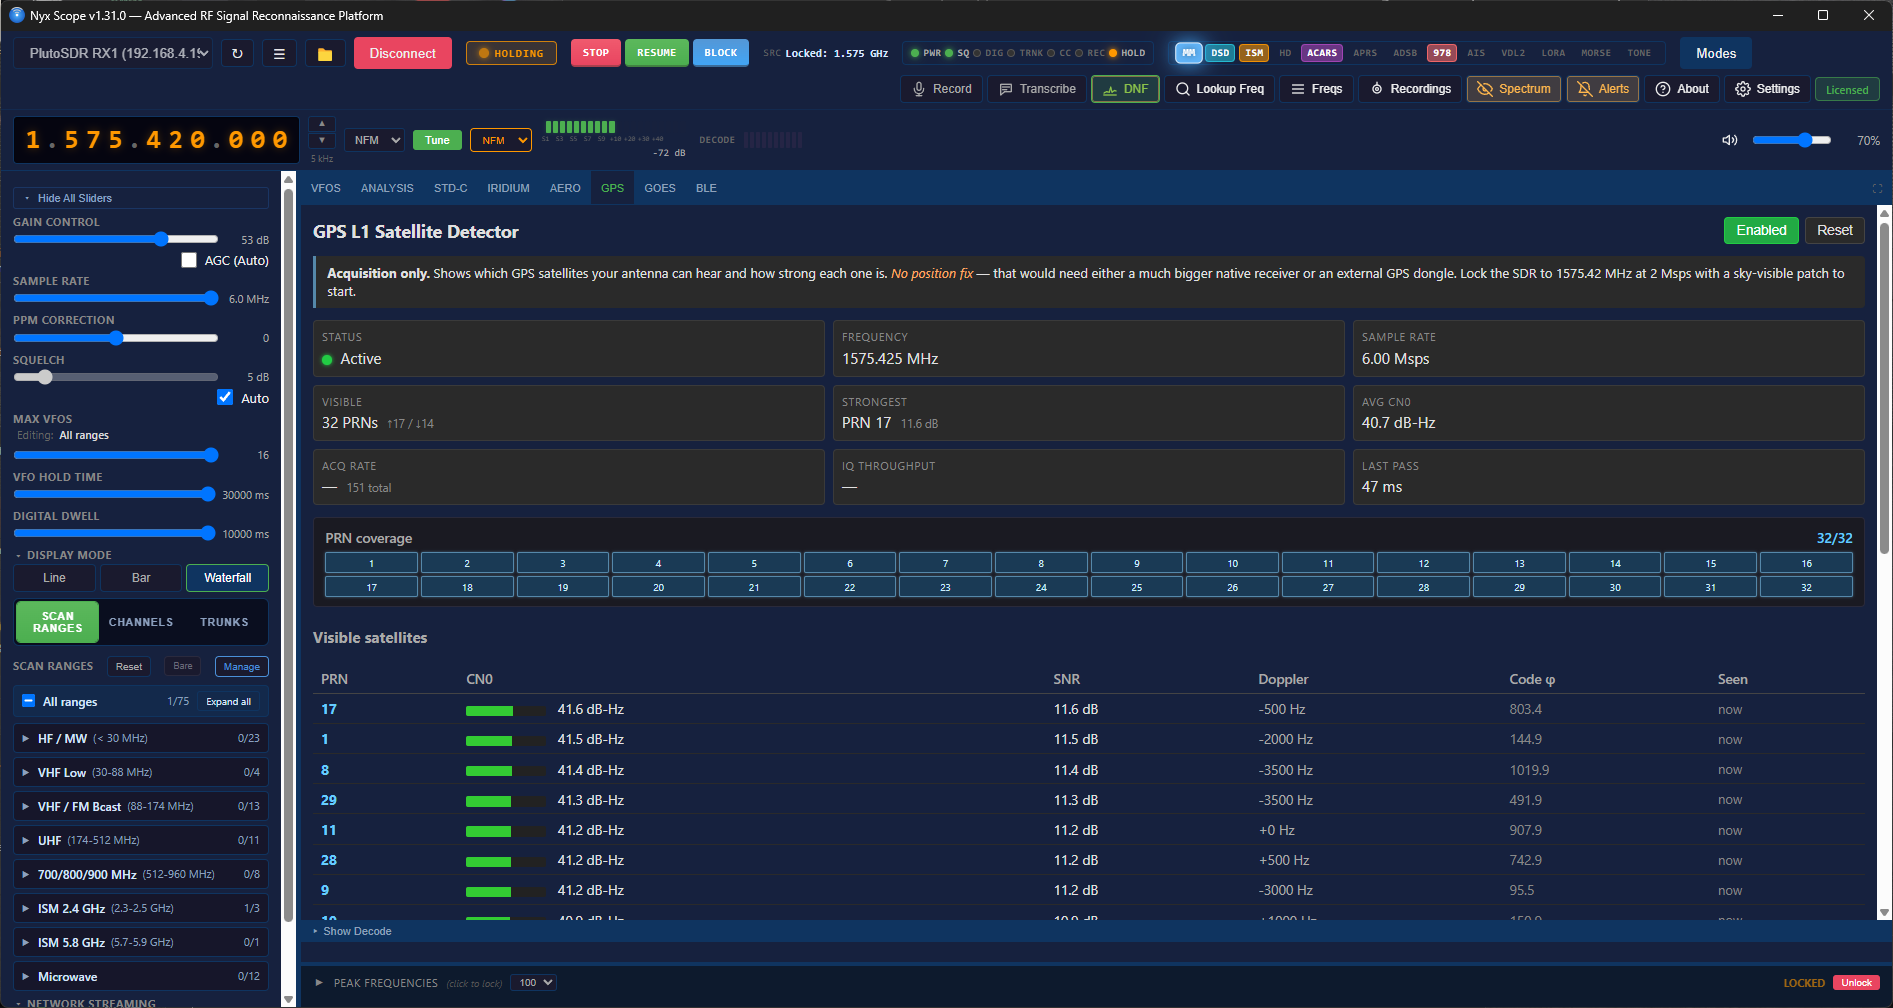
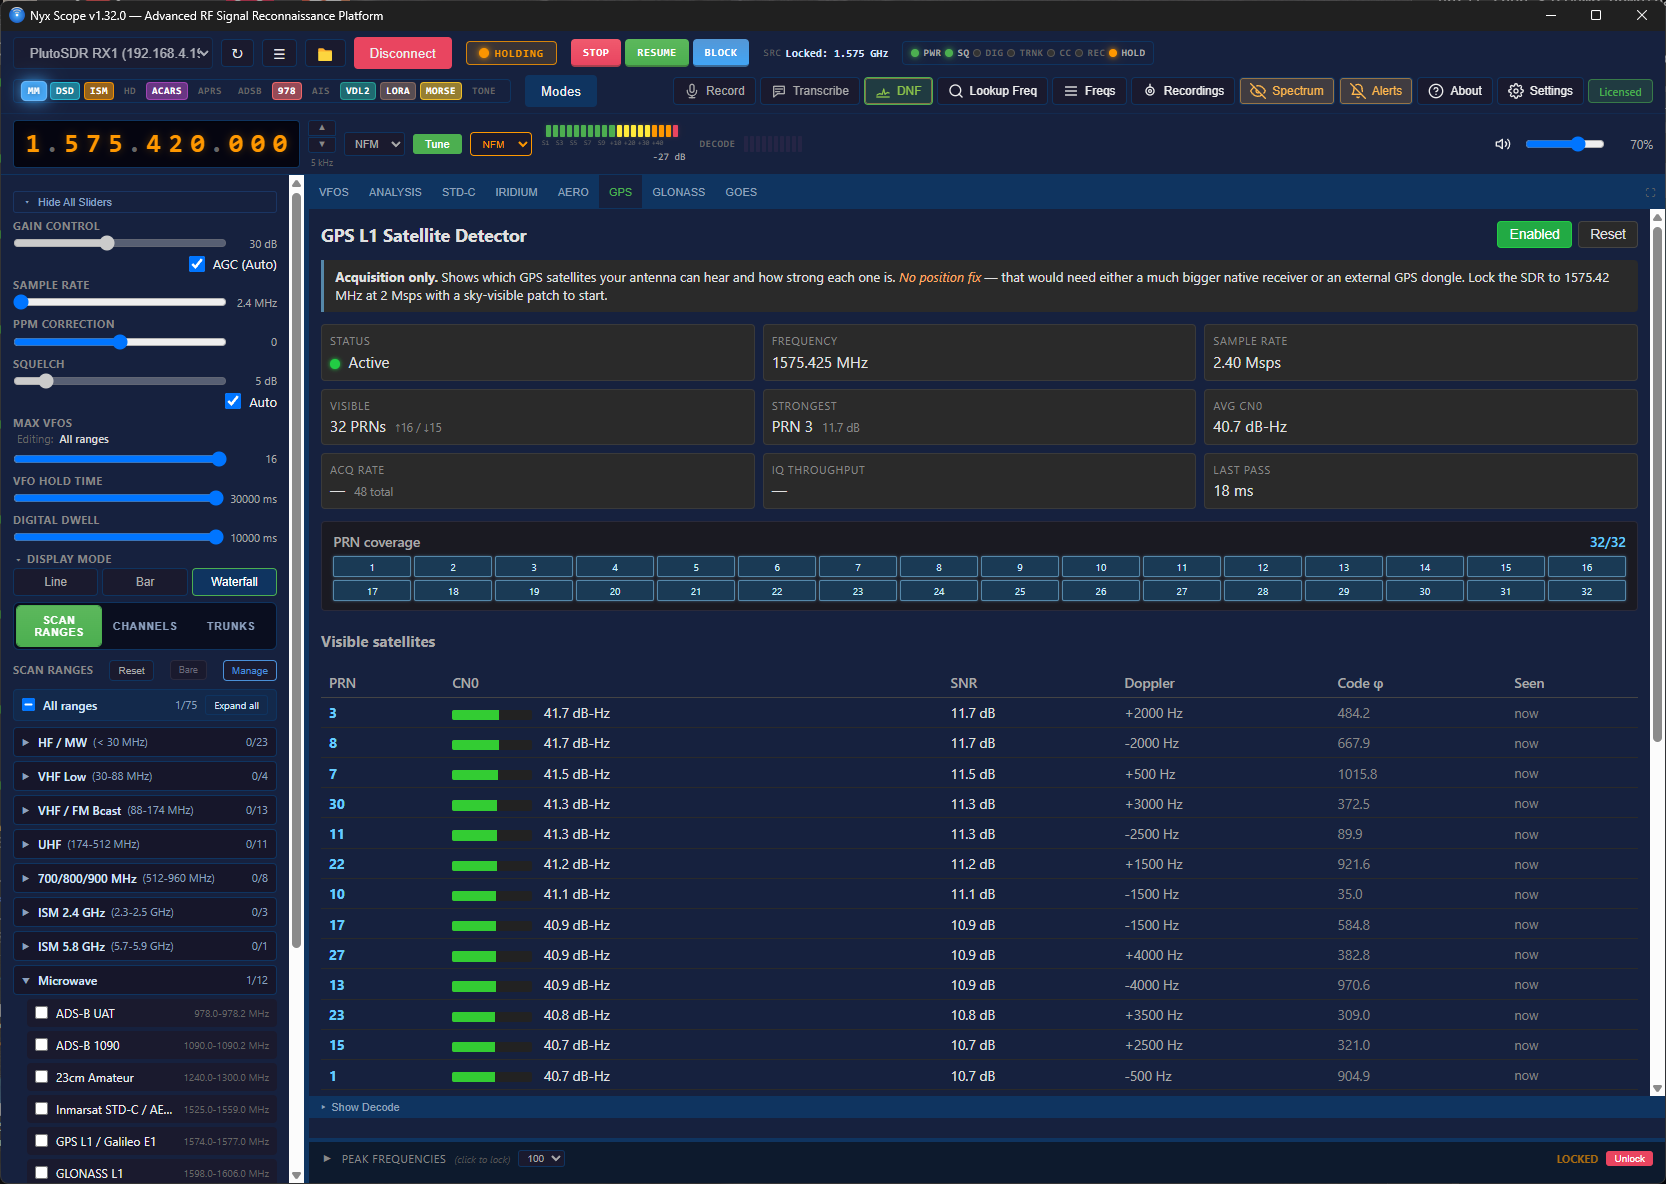
Sync packages repo

diff --git a/README.md b/README.md
@@ -2,11 +2,11 @@
 
 **A multi-protocol SDR receiver for Windows. Native decoders for the protocols that matter, plus a curated toolkit for everything else.**
 
-NyxScope is a Rust/Tauri application that decodes most of its digital protocols natively — P25 Phase 1 and Phase 2 voice, EDACS and NXDN control channels, ADS-B, AIS, ACARS, POCSAG, FLEX, LoRa CSS PHY + LoRaWAN MAC, Morse, RDS, CTCSS/DCS, signal classification — in-process, no sidecar. For protocols where a mature open-source decoder already exists, NyxScope bundles it (`multimon-ng`, `rtl_433`, `dsd-neo`, `nrsc5`, `direwolf`, `dumpvdl2`, `dump978`, `rs41mod`) so the app installs with zero `PATH` wrangling. You get spectrum and waterfall, up to 16 concurrent VFOs, trunked-radio following, digital voice, aviation and marine tracking, paging, ISM sensors, HD Radio, and transcription, in one binary.
+NyxScope is a Rust/Tauri application that decodes most of its digital protocols natively — P25 Phase 1 and Phase 2 voice, EDACS and NXDN control channels, ADS-B, AIS, ACARS, POCSAG, FLEX, LoRa CSS PHY + LoRaWAN MAC, Morse, RDS, CTCSS/DCS, signal classification — in-process, no sidecar. For protocols where a mature open-source decoder already exists, NyxScope bundles it (`multimon-ng`, `rtl_433`, `dsd-neo`, `nrsc5`, `direwolf`, `dumpvdl2`, `dump978`, `rs41mod`) so the app installs with zero `PATH` wrangling. You get spectrum and waterfall, multiple concurrent VFOs, trunked-radio following, digital voice, aviation and marine tracking, paging, ISM sensors, HD Radio, and transcription, in one binary.
 
 [**Download**](https://github.com/ICBizLabs/NyxScope/releases/latest) · [**Website**](https://i-c.biz/) · [**User Manual**](./MANUAL.md) · [**Docs**](https://github.com/ICBizLabs/NyxScope/wiki) · [**Source mirrors**](https://i-c.biz/sources/) · [**Issues**](https://github.com/ICBizLabs/NyxScope/issues)
 
-> **NyxScope 1.31 is a public BETA.** It's stable enough for daily use, but
+> **NyxScope 1.32 is a public BETA.** It's stable enough for daily use, but
 > features are landing fast and some decoders are still being hardened against
 > weak signals. Please report what works and what doesn't — and whether a bug
 > is in NyxScope or in a bundled decoder.
@@ -17,14 +17,14 @@ NyxScope is a Rust/Tauri application that decodes most of its digital protocols 
 
 ---
 
-## What's new in 1.31 (BETA)
+## What's new in 1.32 (BETA)
 
-Full notes: [`RELEASE_NOTES_v1.31.0.md`](./RELEASE_NOTES_v1.31.0.md).
+Full notes: [`RELEASE_NOTES_v1.32.0.md`](./RELEASE_NOTES_v1.32.0.md).
 
-- **IQ-recording playback** — load a saved capture and run the entire decode pipeline over it as if it were live.
-- **GPU waterfall** — the spectrum history now renders in WebGL (SDR++-style): smooth, interpolated, and far lighter on the CPU.
-- **Network SDRs auto-discovered** — SoapyRemote servers (e.g. a HackRF on a Pi) appear in the device picker automatically over the LAN.
-- **Bluetooth LE during scan** now surfaces reliably, the device list is remembered across restarts, live PPM correction works mid-scan, and there's a duration-limited IQ-capture HTTP endpoint.
+- **Fully native Iridium decoding** — the built-in decoder is now the only Iridium path; the sniffer/parser sidecar, bundled Python, and toolkit files are gone. Nothing to install, no Python setup.
+- **RTL-SDR reliability overhaul** — fixed random dropouts (leftover helper processes fighting over the dongle), deaf tuning above ~770 MHz (pagers, P25, 915 MHz ISM), waterfall banding from digital-AGC pumping, and silently ignored sample rates.
+- **Leaner install** — ACARS decoding is fully built in, so the acarsdec sidecar is no longer bundled.
+- **Safer downloads** — the SatDump download is now SHA-256 verified like the other feature packs.
 
 ---
 
@@ -70,7 +70,6 @@ For protocols where a mature open-source decoder already exists, NyxScope bundle
 | [dumpvdl2](https://github.com/szpajder/dumpvdl2) | VHF Data Link Mode 2 | GPL-3.0 |
 | [dump978](https://github.com/mutability/dump978) | UAT 978 MHz ADS-B | GPL-2.0 |
 | [rs41mod (RS)](https://github.com/rs1729/RS) | Radiosonde telemetry (RS41, RS92, DFM, M10/M20) | GPL-3.0 |
-| [acarsdec](https://github.com/TLeconte/acarsdec) | Optional enhanced multi-frequency ACARS (the native MSK decoder is the default) | LGPL-2.0 |
 
 App frameworks: [Rust](https://www.rust-lang.org), [Tauri](https://tauri.app), and [Svelte](https://svelte.dev) — Apache-2.0 / MIT.
 
@@ -90,7 +89,7 @@ If a decode is wrong inside one of the bundled tools, the fix usually belongs **
 
 - **Live spectrum and GPU waterfall** with peak picking, hover tooltips, right-click tune-to, and one-click skip from peaks. The waterfall renders in WebGL — smooth and interpolated, with the history scrolled and colour-mapped on the graphics card (it falls back to a CPU renderer when WebGL isn't available).
 - **IQ-recording playback** — load a saved capture (`.cf32` / `.cs16` / `.cu8` / `.fc32` / `.sc16` / `.raw`) as a playback "device" and run every native decoder, VFO, and protocol panel against it as if it were live.
-- **Up to 16 concurrent VFOs** with mini-waterfalls (centered on the channel and scaled to its bandwidth) and independent audio per channel.
+- **Multiple concurrent VFOs** with mini-waterfalls (centered on the channel and scaled to its bandwidth) and independent audio per channel.
 - **Adaptive auto-squelch** that tracks the noise floor with one-shot and continuous modes.
 - **Auto-identify digital protocol** — point at an unknown digital signal and the app cycles through DSD modes and picks the best match.
 - **Signal classification** that labels the modulation (FSK, GFSK, OOK, OFDM, …) from IQ.
@@ -143,7 +142,7 @@ P25 (Phase 1 & 2), DMR, NXDN48, NXDN96, D-STAR, Yaesu System Fusion, M17, ProVoi
 - **ADS-B 1090** — live aircraft positions, ICAO codes, altitude, callsigns, on a map.
 - **UAT 978** — general aviation ADS-B (`dump978`).
 - **AIS 162** — vessel MMSI, position, speed, heading (native dual-channel GMSK decoder).
-- **ACARS 130** — flight messages, registrations, labels (`acarsdec`).
+- **ACARS 130** — flight messages, registrations, labels (built-in decoder).
 - **VDL2 137** — VHF Data Link Mode 2 (`dumpvdl2`).
 
 ![NyxScope in ACARS mode — eight standard VHF aviation channels monitored at once, with decoded messages showing registration, flight ID, label and free-text body](screenshots/ACARSMode.png)
@@ -158,7 +157,7 @@ A suite of space and L-band receivers (downloaded on demand from the Feature Man
 
 *Iridium (1.6 GHz): NyxScope's native burst decoder classifies and parses Iridium frames (Ring Alert / IRA satellite overhead, broadcast, data) into a live, filterable timeline, with a quick-start preset and map view.*
 
-- **Iridium (1.6 GHz)** — native burst decoder (IRA / IBC / IDA and more) with the `iridium-toolkit` parser, a voice-activity tab, a Ring-Alert preset, and a satellite map view.
+- **Iridium (1.6 GHz)** — built-in native burst decoder (IRA / IBC / IDA and more) with a voice-activity tab, a Ring-Alert preset, and a satellite map view. No external tools or Python needed.
 - **Aero ACARS (Inmarsat L-band, ~1.5 GHz)** — aircraft↔ground satellite messaging via the Inmarsat sniffer, with per-satellite selection (4F3 / 3F5 / AF1 / F1) and an antenna-peaking C/N meter.
 - **STD-C (Inmarsat-C, ~1.541 GHz)** — maritime safety + EGC bulletins, with live lock-health diagnostics and offline IQ-file decode.
 - **GOES LRIT (1.69 GHz)** — geostationary weather-satellite imagery via a SatDump sidecar over an in-process `rtl_tcp` bridge, with an az/el pointing helper from your location.
@@ -240,7 +239,9 @@ RTL-SDR devices need WinUSB / libusb drivers — install via [Zadig](https://zad
 
 ## Editions
 
-NyxScope ships in a **Free** tier (single VFO, channel banks, POCSAG/FLEX paging, CTCSS/DCS, RDS, signal classification) and a paid tier that unlocks 16-VFO operation, trunking, the full digital voice suite, ADS-B/AIS/ACARS/VDL2/APRS/radiosonde/LoRa, HD Radio, recording, streaming, and Whisper transcription. A trial of the paid features starts automatically on first install — no card required. Licenses are bound to a hardware fingerprint and transferable on request. See the License dialog in-app for activation details.
+NyxScope is **fully functional for free** — every decoder works (ADS-B, UAT, AIS, ACARS, P25/DMR/NXDN/EDACS voice, VDL2, HD Radio, APRS, radiosonde, LoRa, ISM sensors, POCSAG/FLEX paging, CTCSS/DCS, RDS, signal classification), along with trunked-radio following, audio and IQ recording, and Whisper transcription. The free tier runs up to **3 concurrent VFOs** and applies modest quotas to saved recordings, transcriptions, and pager messages.
+
+A **license** lifts those limits and adds the infrastructure features: **unlimited VFOs**, HTTP and RTL-TCP audio streaming, unlimited recording and transcription, and built-in access to the **i-c.biz FCC frequency-lookup database** (no separate API key). A trial of the licensed features starts automatically on first install — no card required. Licenses are bound to a hardware fingerprint and transferable on request. See the License dialog in-app for activation details.
 
 The license model is described in detail in [`eula.md`](./eula.md).
 
@@ -291,7 +292,7 @@ NyxScope is currently Windows-only.
 
 ## Acknowledgments
 
-NyxScope ships its own decoders for most digital protocols and integrates a curated set of established open-source tools for the rest. Thanks to the maintainers of `dsd-neo`, `mbelib-neo`, `rtl_433`, `multimon-ng`, `nrsc5`, `direwolf`, `dumpvdl2`, `dump978`, `rs41mod`, and `acarsdec`, and to the Rust, Tauri, and Svelte projects — the bundled-tools side of NyxScope rests on their work. The full list of upstream libraries lives in [`THIRD_PARTY_NOTICES.md`](./THIRD_PARTY_NOTICES.md).
+NyxScope ships its own decoders for most digital protocols and integrates a curated set of established open-source tools for the rest. Thanks to the maintainers of `dsd-neo`, `mbelib-neo`, `rtl_433`, `multimon-ng`, `nrsc5`, `direwolf`, `dumpvdl2`, `dump978`, and `rs41mod`, and to the Rust, Tauri, and Svelte projects — the bundled-tools side of NyxScope rests on their work. The full list of upstream libraries lives in [`THIRD_PARTY_NOTICES.md`](./THIRD_PARTY_NOTICES.md).
 
 If you find NyxScope useful, please also consider supporting the upstream projects.
 